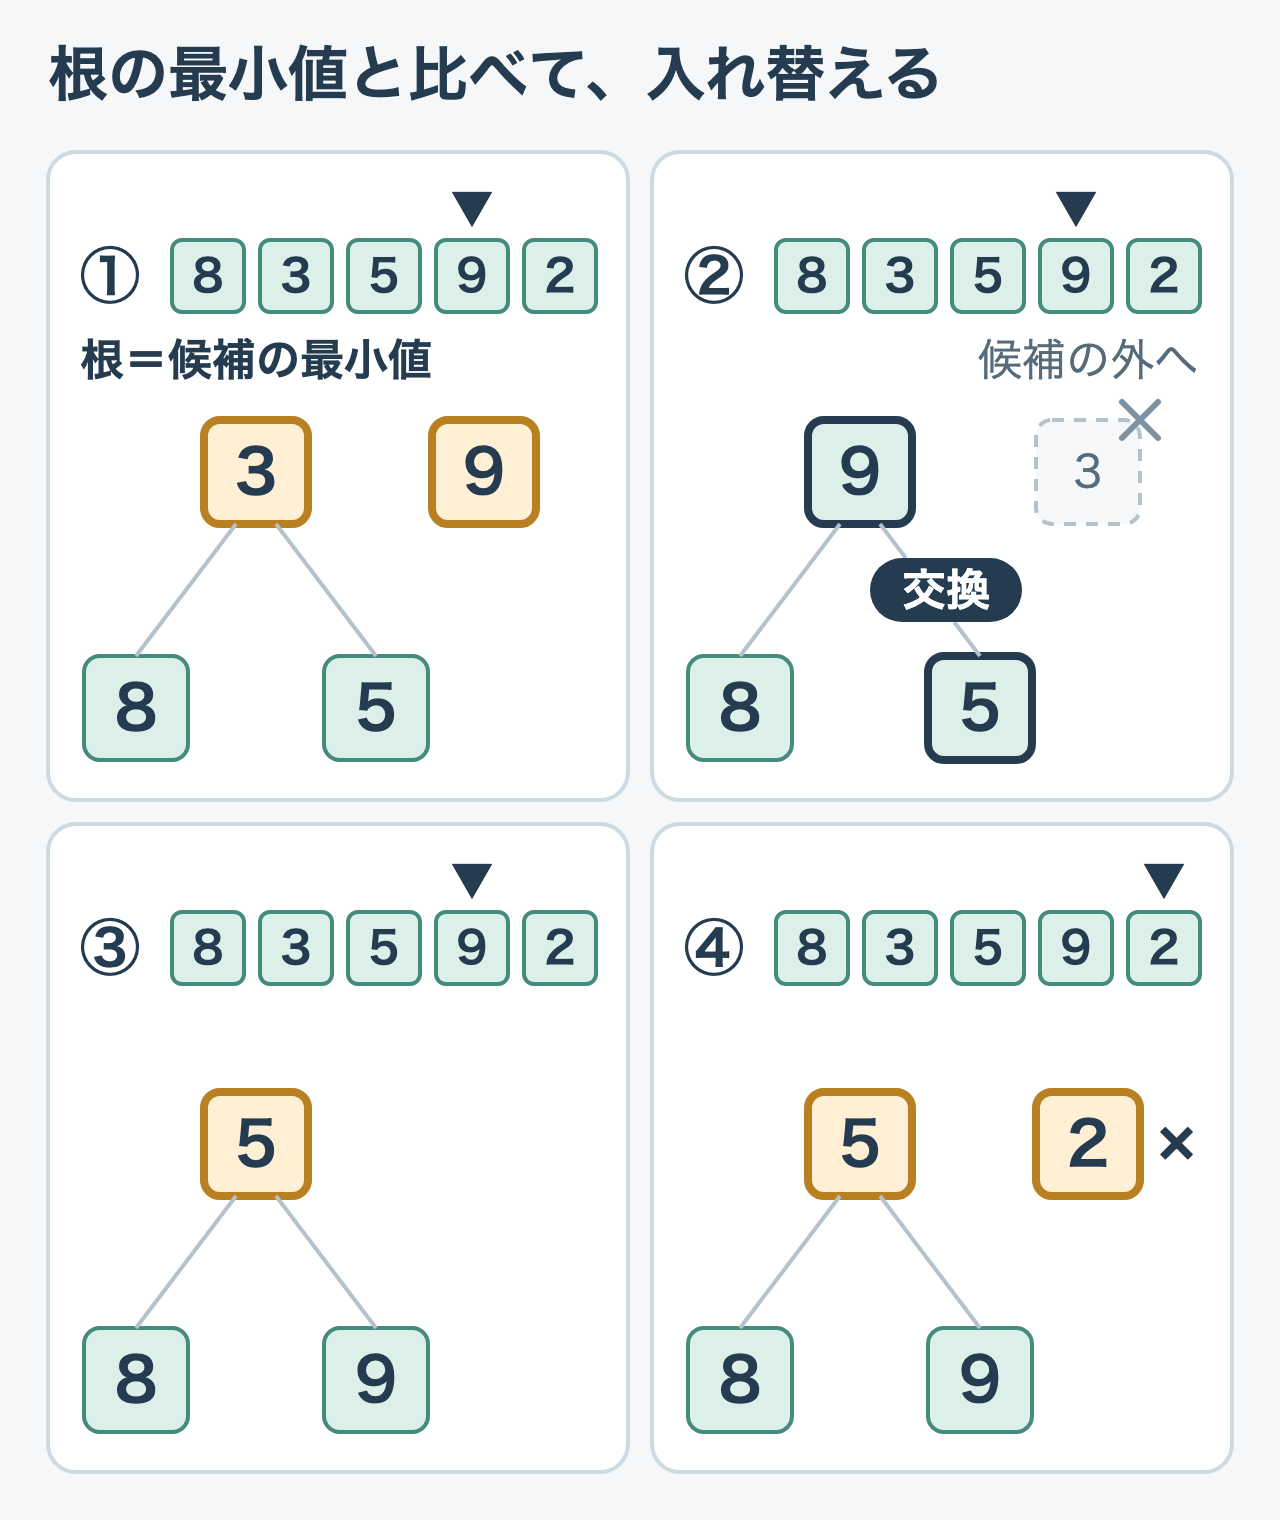
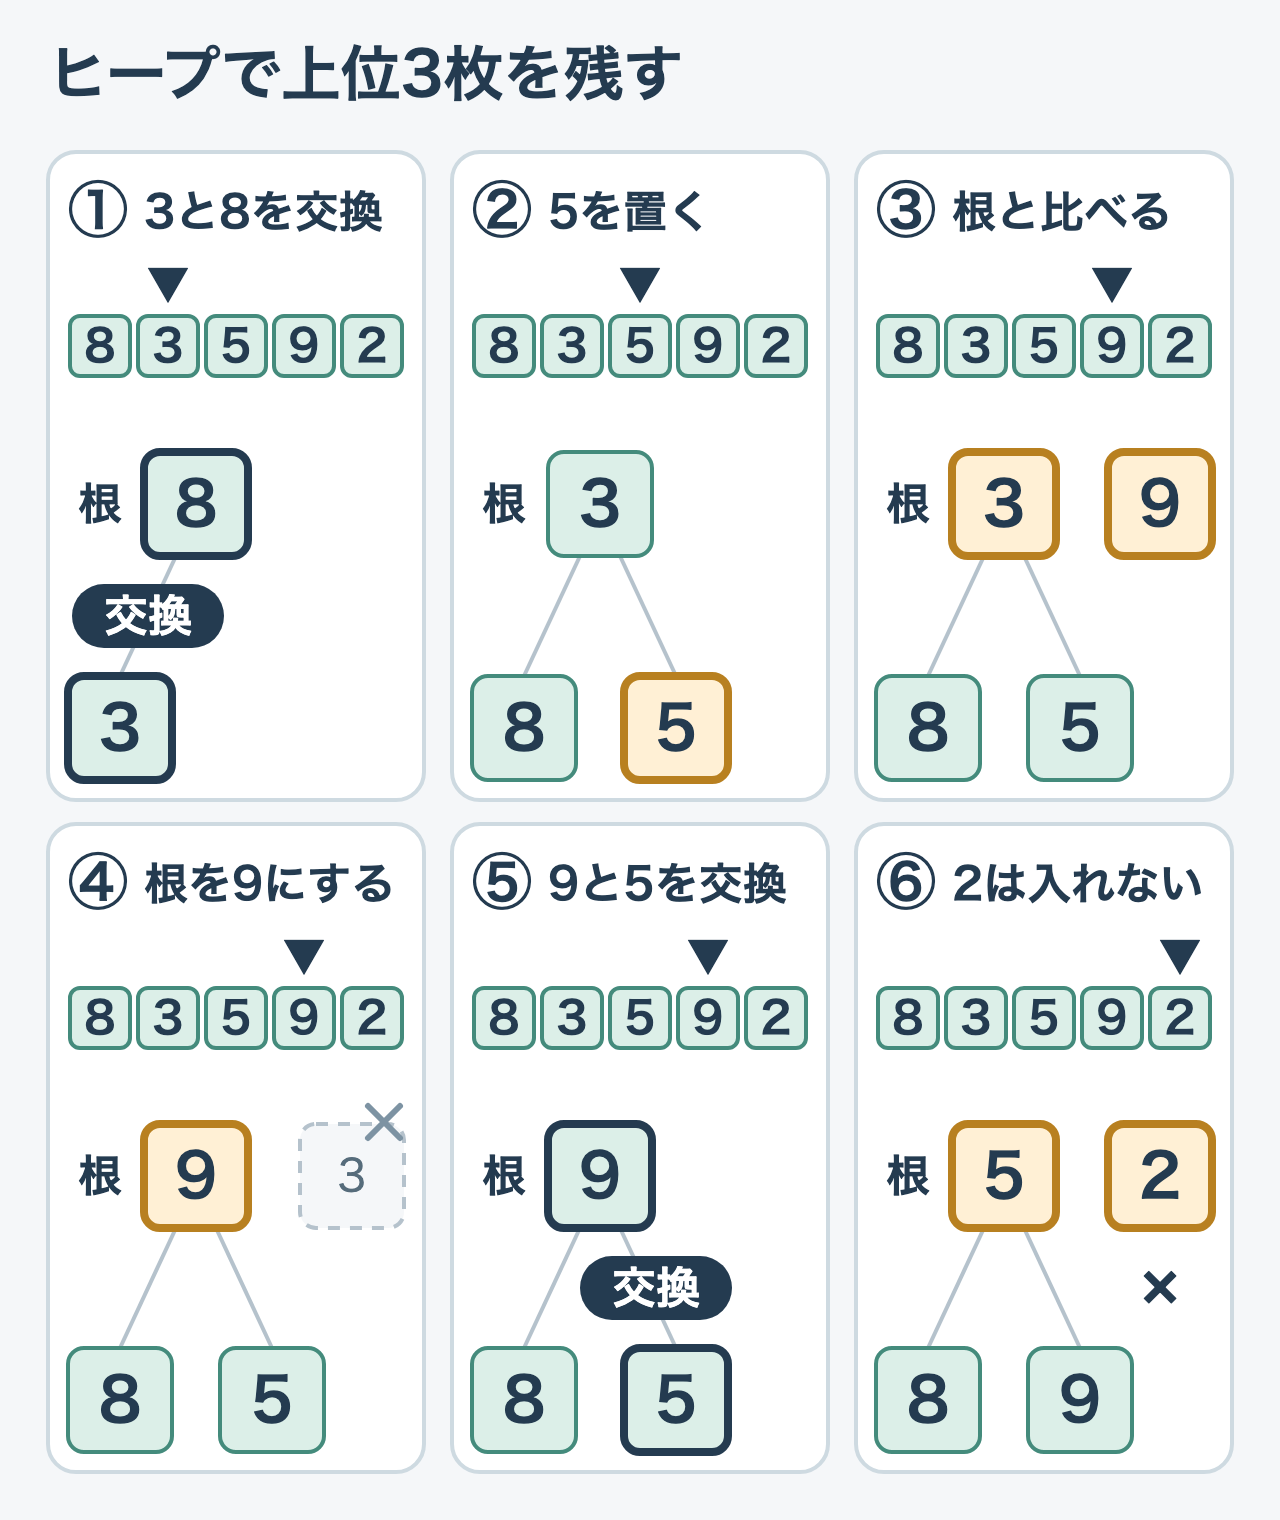
docs(query-journey): 第8章のヒープの図に、作り始めのコマを足し、入れ替えを2コマに分ける
top-three-heap を4コマから6コマ（3列×2段）にした。
- 足したコマ：①で8を根に置いて3と交換し、②で5を置いて根が3のヒープになる。
  本文の「最初の3枚は、届いた順に木へ置きながら形を整えます」の段落と対応する。
- 分けたコマ：今の②の「3を外して9を根へ入れる」と「9と5を交換する」を、
  ④「根を9にする」と⑤「9と5を交換」に分けた。1コマに一つの手順にするため。
- 各コマに手順の短い札を付け、根の位置に「根」を書いた。見出しは
  「ヒープで上位3枚を残す」にした。
- 本文のコマの番号（1〜4コマ目）を、新しい並び（1〜6コマ目）に合わせて直した。

diff --git a/books/postgresql-query-journey/08-top-n-heap.md b/books/postgresql-query-journey/08-top-n-heap.md
@@ -45,18 +45,18 @@ LIMIT 20;
 
 最初の3枚は、届いた順に木へ置きながら形を整えます。まず8を根に置きます。次の3は8の子に置きますが、親の8が子の3より大きく、条件に合いません。そこで3と8を入れ替えて、3を根にします。最後の5は、根の3のもう一つの子に置きます。親の3は子の5以下なので、そのままです。
 
-こうしてできたのが、図の1コマ目の形です。根が3、その子が8と5です。9が届いた後、根の値がどう変わるかを追ってください。
+図の1・2コマ目が、この作り始めの手順です。2コマ目で、根が3、その子が8と5の形ができます。3コマ目から後で、9が届いた後に根の値がどう変わるかを追ってください。
 
-![届く順8・3・5・9・2のうち、9が根の3より大きいので3を外して9を根へ入れ、小さい子の5と交換して根を5にする。次の2は根の5より小さいので候補に入れない](/images/postgresql-query-journey/top-three-heap.png)
-*各コマの上の▼が、いま届いたカードです。根の最小値と比べて、入れ替えるかを決めます（説明するための図。カードはレコードに対応します）。*
+![8・3・5を置いて根が3のヒープを作り、届いた9が根の3より大きいので3を外して9を根へ入れ、小さい子の5と交換して根を5にする。次の2は根の5より小さいので候補に入れない](/images/postgresql-query-journey/top-three-heap.png)
+*1・2コマ目で最初の3枚からヒープを作り、3コマ目から後は届いたカードを根の最小値と比べます。各コマの上の▼が、いま届いたカードです（説明するための図。カードはレコードに対応します）。*
 
-1コマ目の9は、候補で最小の3より大きいので残します。2コマ目で3を外し、9を根へ入れました。ただし、このままでは親9が子8と子5より大きく、ヒープの条件を満たしていません。
+3コマ目の9は、候補で最小の3より大きいので残します。4コマ目で3を外し、9を根へ入れました。ただし、このままでは親9が子8と子5より大きく、ヒープの条件を満たしていません。
 
-そこで、小さいほうの子5と9を交換します。3コマ目では根が5、その子が8と9になり、親の値が子以下という条件が戻りました。候補の中で最小の値を、再び根から確かめられます。
+そこで、5コマ目で小さいほうの子5と9を交換します。交換すると根が5、その子が8と9になり、親の値が子以下という条件が戻りました。候補の中で最小の値を、再び根から確かめられます。
 
-4コマ目の2は、根の5より小さいので候補に入れません。入力をすべて確かめた後、残った候補を必要な出力順に整えます。今回は大きい順に9、8、5です。
+6コマ目の2は、根の5より小さいので候補に入れません。入力をすべて確かめた後、残った候補を必要な出力順に整えます。今回は大きい順に9、8、5です。
 
-1コマ目の子は左が8、右が5で、小さい順には並んでいません。それでも根は最小です。ヒープは、すべての値の順位を確定せずに、候補の最小値を管理できる構造です。
+2コマ目の子は左が8、右が5で、小さい順には並んでいません。それでも根は最小です。ヒープは、すべての値の順位を確定せずに、候補の最小値を管理できる構造です。
 
 ## 候補が3枚なら、見るカードも減る？
 
